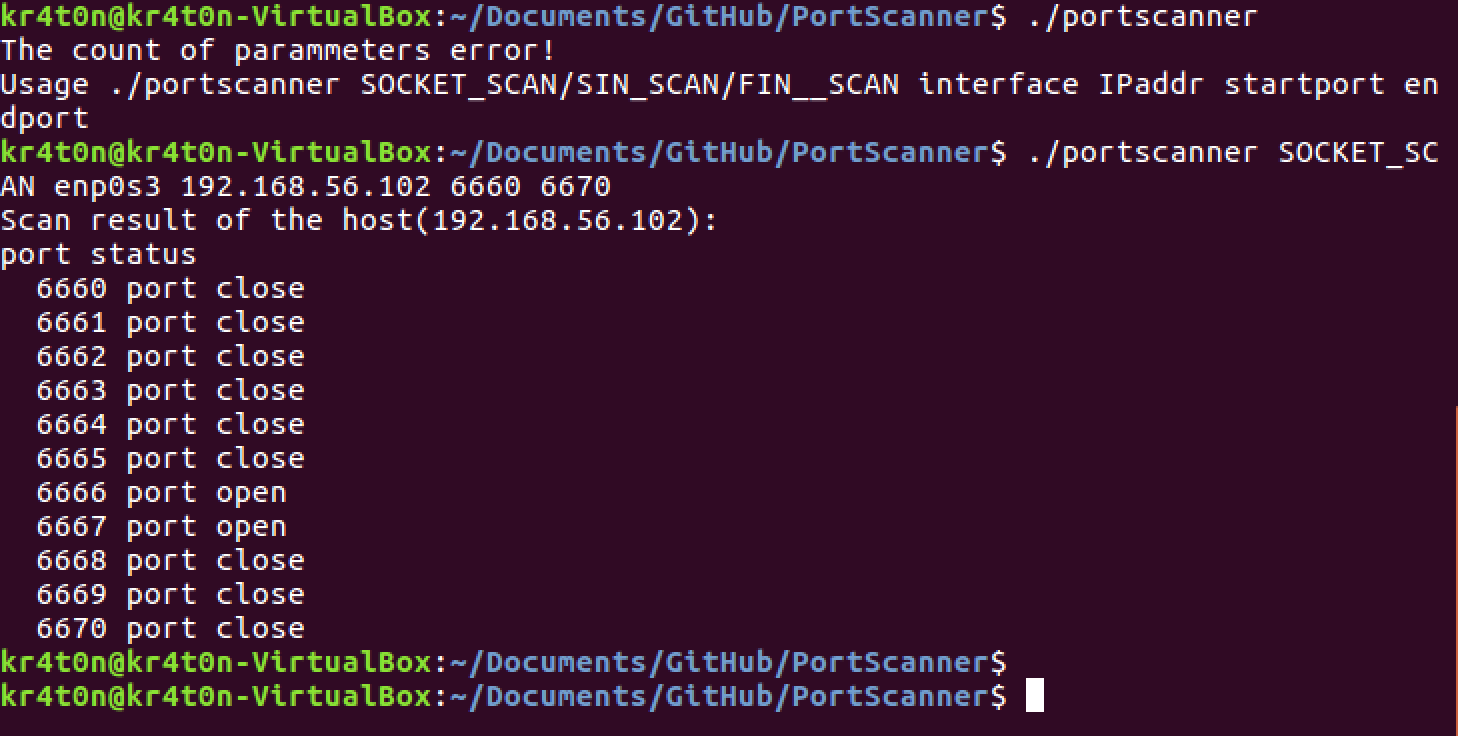
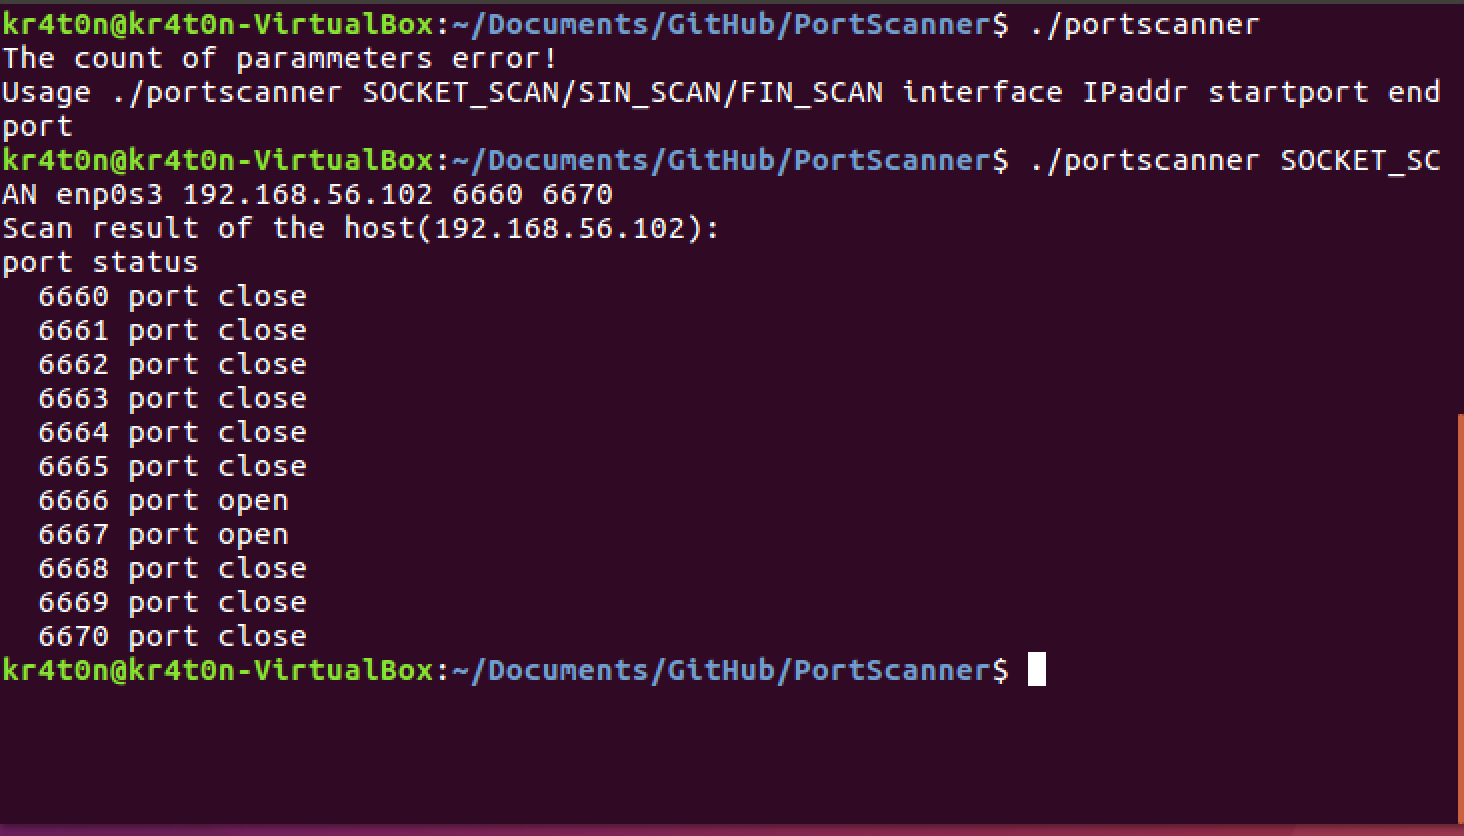
Fix the typo

Changed region(s): [[0.0, 0.0, 1.0, 1.0]]

diff --git a/README.md b/README.md
@@ -22,10 +22,11 @@ make && make clean
 
 # Usage
 ```bash
-./portscanner SOCKET_SCAN/SIN_SCAN/FIN__SCAN interface IPaddr startport endport
+./portscanner SOCKET_SCAN/SIN_SCAN/FIN_SCAN interface IPaddr startport endport
 ```
 
 # Example
 ![1](media/1.png)
+
 
 
